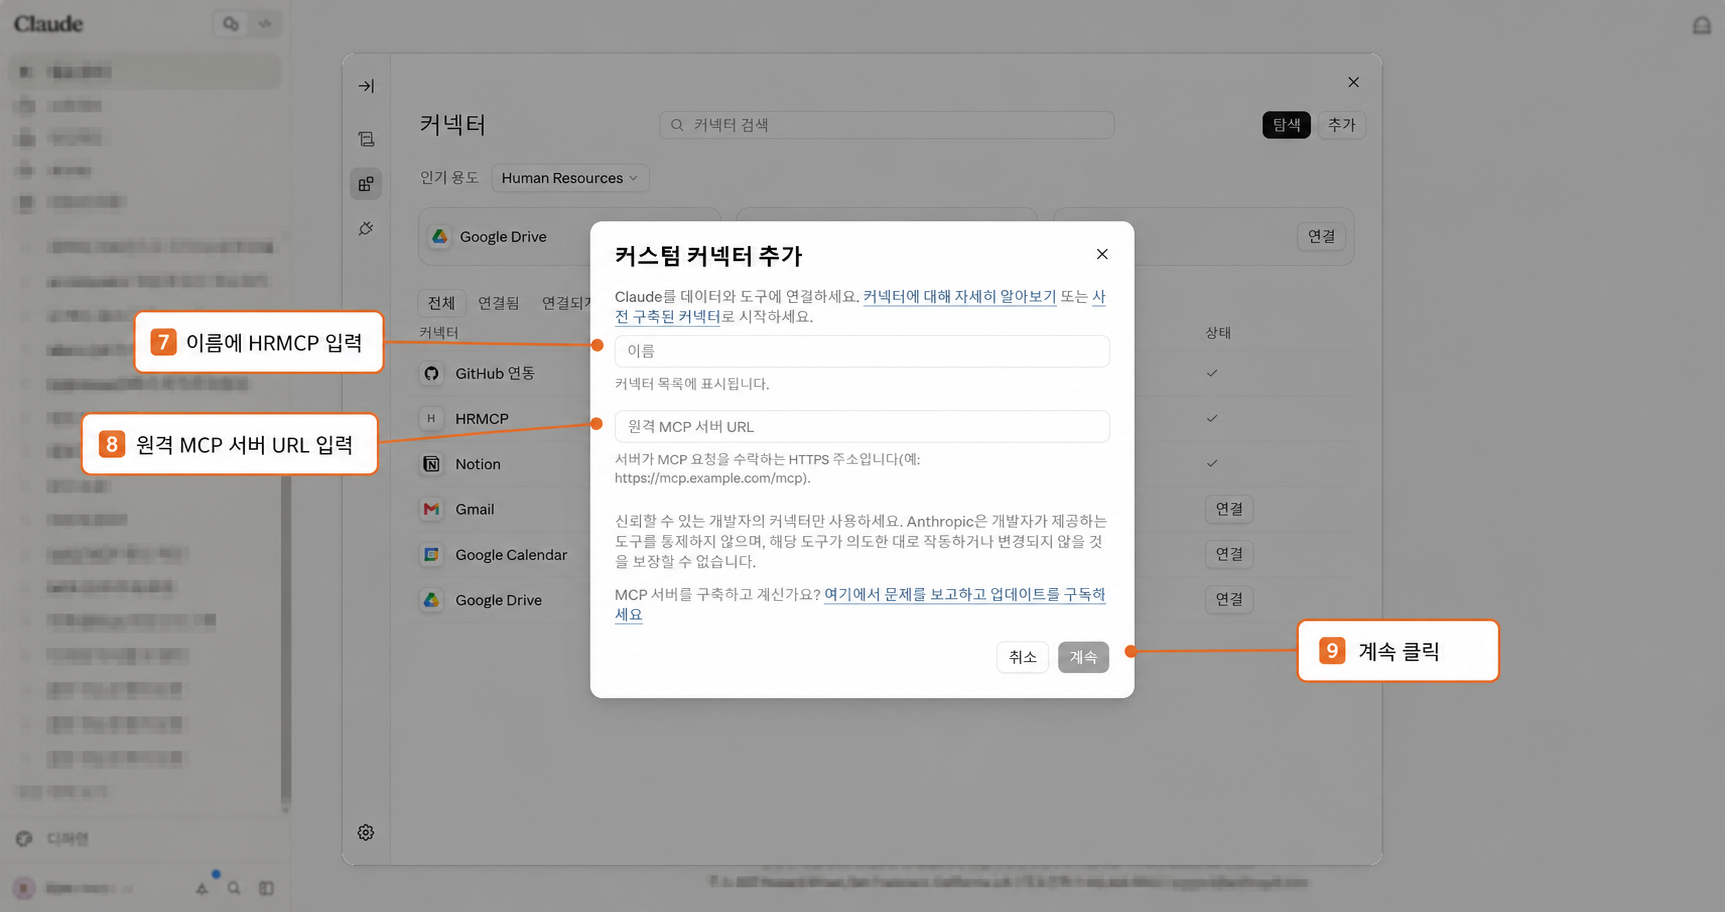
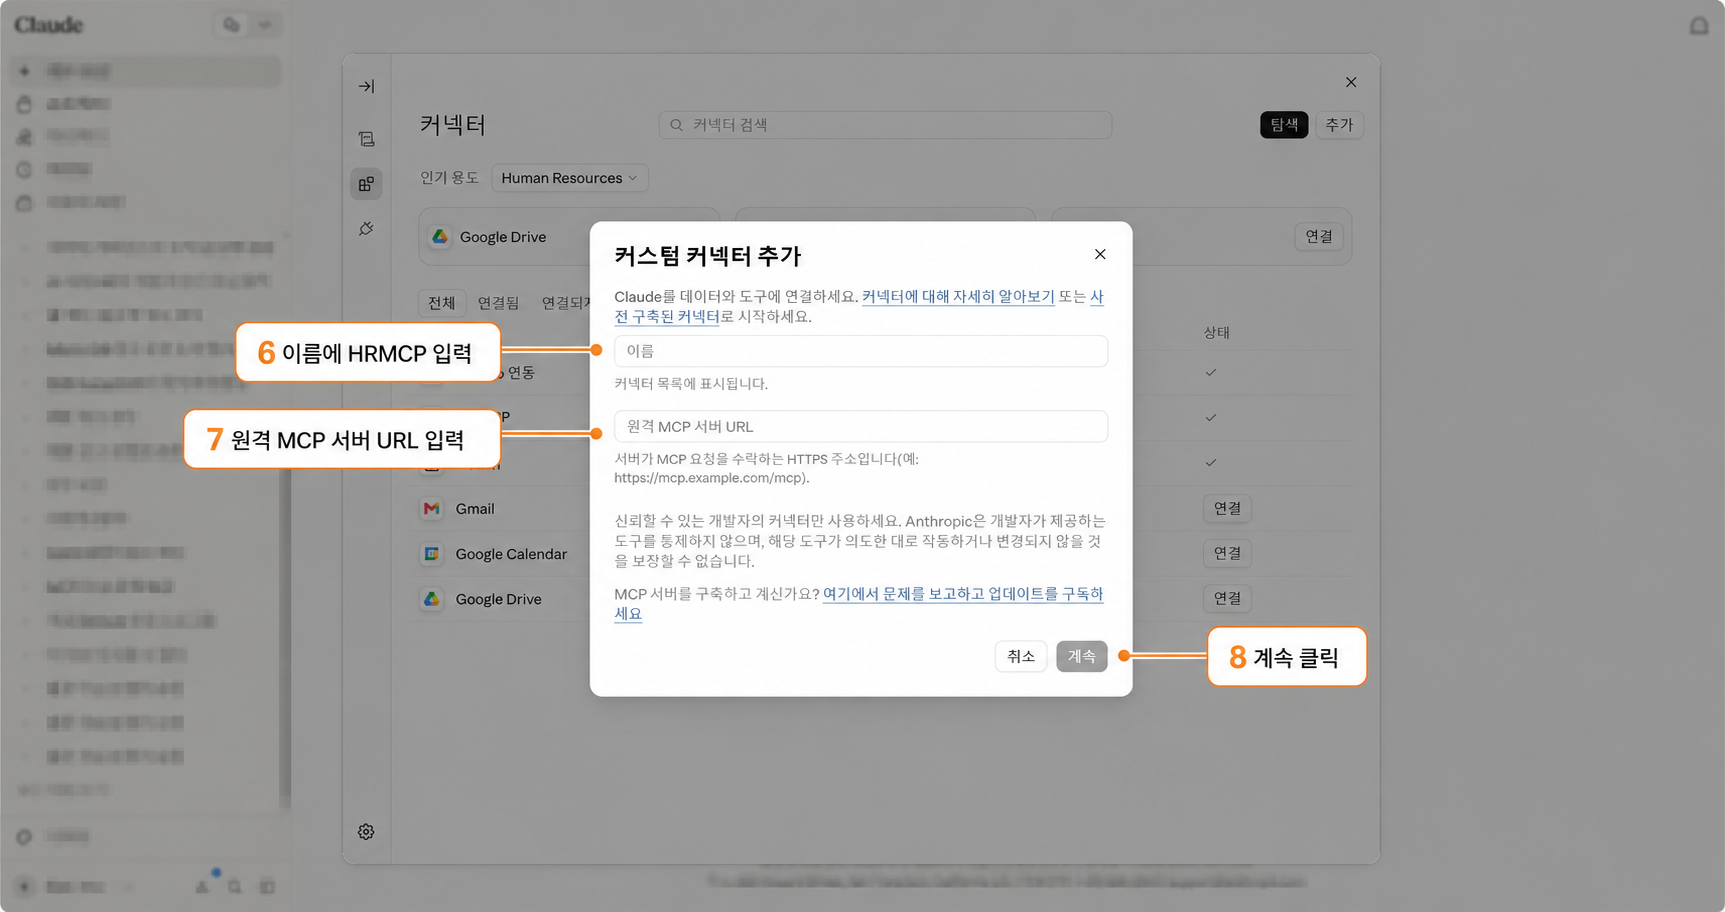
Separate Claude connector setup from usage

diff --git a/README.md b/README.md
@@ -142,7 +142,7 @@ Claude의 원격 MCP 커스텀 커넥터는 Free·Pro·Max·Team·Enterprise 플
 
 #### 개인 플랜 (Free·Pro·Max)
 
-위의 바로가기 링크를 사용하면 아래 1~6단계를 건너뛰고 7단계의 커넥터 등록 화면으로
+위의 바로가기 링크를 사용하면 아래 1~5단계를 건너뛰고 6단계의 커넥터 등록 화면으로
 이동할 수 있습니다. Claude 웹 화면에서 직접 이동하려면 다음 순서를 따릅니다.
 
 1. Claude 홈 화면 왼쪽 아래의 **프로필**을 클릭합니다.
@@ -159,24 +159,20 @@ Claude의 원격 MCP 커스텀 커넥터는 Free·Pro·Max·Team·Enterprise 플
 
 4. 사용자 지정 화면 왼쪽에서 **커넥터**를 선택합니다.
 
-5. 커넥터 목록에서 `HRMCP`를 찾습니다. `HRMCP` 행에 체크 표시가 보이면 연결된 상태이며,
-   Claude 대화에서 바로 사용할 수 있습니다.
+5. 오른쪽 위의 **추가**를 클릭합니다.
 
-6. 목록에 `HRMCP`가 없다면 오른쪽 위의 **추가**를 클릭합니다.
+![Claude 사용자 지정의 커넥터 화면에서 추가 버튼을 선택하는 화면](docs/images/setup/claude_hrmcp_setup_04_connectors.png)
 
-![Claude 커넥터 목록에서 기존 HRMCP 연결 상태를 확인하고 없을 때 추가하는 화면](docs/images/setup/claude_hrmcp_setup_04_connectors.png)
+6. **추가**를 누르면 **커스텀 커넥터 추가** 창이 열립니다. **이름**에 `HRMCP`를 입력합니다.
 
-7. **추가**를 누르면 **커스텀 커넥터 추가** 창이 열립니다. **이름**에 `HRMCP`를 입력합니다.
+7. **원격 MCP 서버 URL**에 `https://ncscope-ncs-mcp.vercel.app/api/mcp`를 입력합니다.
 
-8. **원격 MCP 서버 URL**에 `https://ncscope-ncs-mcp.vercel.app/api/mcp`를 입력합니다.
-
-9. 두 값을 확인한 뒤 **계속**을 클릭해 연결 절차를 진행합니다.
+8. 두 값을 확인한 뒤 **계속**을 클릭해 등록을 진행합니다.
 
 ![Claude 커스텀 커넥터 추가 창에서 이름과 원격 MCP 서버 URL을 입력하는 화면](docs/images/setup/claude_hrmcp_setup_05_add_custom_connector.png)
 
 **계속**을 누르면 연결 설정이 진행됩니다. 확인 단계가 표시되면 내용을 확인해 등록을
 마칩니다. HRMCP는 인증이 필요하지 않으므로 OAuth Client ID·Secret은 입력하지 않습니다.
-커넥터 목록으로 돌아왔을 때 `HRMCP` 행에 체크 표시가 보이면 등록과 연결이 완료된 것입니다.
 
 > Claude 업데이트나 계정 유형에 따라 메뉴 배치나 버튼 이름이 조금 달라질 수 있습니다.
 
@@ -186,8 +182,7 @@ Claude의 원격 MCP 커스텀 커넥터는 Free·Pro·Max·Team·Enterprise 플
    이동합니다.
 2. **Add → Custom → Web** 을 선택하고 위의 원격 MCP 서버 URL을 입력합니다.
 3. OAuth 고급 설정은 비워 둔 채 **Add** 를 클릭해 조직에 등록합니다.
-4. 각 구성원은 **설정 → 사용자 지정 → 커넥터**에서 `HRMCP`를 찾아 **연결**을 클릭하고,
-   체크 표시로 연결 상태를 확인합니다.
+4. 각 구성원은 **설정 → 사용자 지정 → 커넥터**에서 `HRMCP`를 찾아 **연결**을 클릭합니다.
 
 ---
 
@@ -215,10 +210,14 @@ Claude의 원격 MCP 커스텀 커넥터는 Free·Pro·Max·Team·Enterprise 플
 
 #### Claude
 
-위의 연결 절차를 완료한 뒤 채용공고와 직무기술서를 첨부하고 다음과 같이 요청합니다.
-Claude에서는 `@HRMCP`를 붙일 필요가 없습니다. 요청문에 `HRMCP의 NCS 데이터를 활용해`라고
-명시하면 Claude가 연결된 HRMCP 도구를 사용해 답변을 작성합니다. 도구 사용 권한 확인 창이
-표시되면 내용을 확인한 뒤 허용합니다.
+Claude에서 **설정 → 사용자 지정 → 커넥터**로 이동해 `HRMCP` 행의 체크 표시를 확인합니다.
+
+![Claude에서 HRMCP 커넥터의 연결 상태를 확인하는 화면](docs/images/setup/claude_hrmcp_use_01_connected.png)
+
+연결 상태를 확인한 뒤 채용공고와 직무기술서를 첨부하고 다음과 같이 요청합니다. Claude에서는
+`@HRMCP`를 붙일 필요가 없습니다. 요청문에 `HRMCP의 NCS 데이터를 활용해`라고 명시하면
+Claude가 연결된 HRMCP 도구를 사용해 답변을 작성합니다. 도구 사용 권한 확인 창이 표시되면
+내용을 확인한 뒤 허용합니다.
 
 ```text
 첨부한 채용공고와 직무기술서를 참고하고 HRMCP의 NCS 데이터를 활용해 구조화된 행동면접 질문 10개를 작성해줘.
